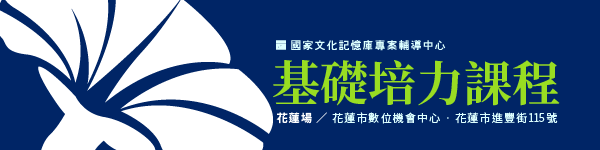
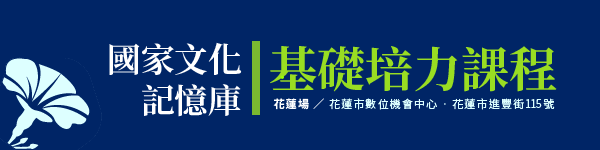
fix to new header
fix to new header

diff --git a/etw.html b/etw.html
@@ -42,7 +42,7 @@
 			* @theme page
 			*/
 			#bodyCell{
-				/*@editable*/ border-top:1px solid #006D3E;
+				/*@editable*/ border-top:0px solid #006D3E;
 			}
 
 			/**
@@ -51,7 +51,7 @@
 			* @tip Set the border for your email.
 			*/
 			#templateContainer{
-				/*@editable*/ border:1px solid #006D3E;
+				/*@editable*/ border:1px solid #0e1e3b;
 			}
 
 			/**
@@ -61,7 +61,7 @@
 			* @style heading 1
 			*/
 			h1{
-				/*@editable*/ color:#FFF !important;
+				/*@editable*/ color:#0e1e3b !important;
 				display:block;
 				/*@editable*/ font-family:"微軟正黑體" , Helvetica;
 				/*@editable*/ font-size:28px;
@@ -71,9 +71,11 @@
 				/*@editable*/ letter-spacing:normal;
 				margin-top:0;
 				margin-right:0;
-				margin-bottom:5px;
+				margin-bottom:0px;
 				margin-left:0;
 				/*@editable*/ text-align:justify;
+                 border-top: 1px solid #0e1e3b;
+                padding-top: 15px;
 			}
 
 			/**
@@ -83,7 +85,7 @@
 			* @style heading 2
 			*/
 			h2{
-				/*@editable*/ color:#99DD22 !important;
+				/*@editable*/ color:#002266 !important;
 				display:block;
 				/*@editable*/ font-family:"微軟正黑體" , Helvetica;
 				/*@editable*/ font-size:24px;
@@ -96,6 +98,8 @@
 				margin-bottom:5px;
 				margin-left:0;
 				/*@editable*/ text-align:left;
+                border-top: 1px solid #0e1e3b;
+                padding-top: 15px;
 			}
 
 			/**
@@ -105,7 +109,7 @@
 			* @style heading 3
 			*/
 			h3{
-				/*@editable*/ color:#ccc !important;
+				/*@editable*/ color:#333 !important;
 				display:block;
 				/*@editable*/ font-family:"微軟正黑體" , Helvetica;
 				/*@editable*/ font-size:16px;
@@ -127,7 +131,7 @@
 			* @style heading 4
 			*/
 			h4{
-				/*@editable*/ color:#fff !important;
+				/*@editable*/ color:#002266 !important;
 				display:block;
 				/*@editable*/ font-family:"微軟正黑體" , Helvetica;
 				/*@editable*/ font-size:14px;
@@ -186,9 +190,9 @@
 			* @theme header
 			*/
 			#templateHeader{
-				/*@editable*/ background-color:#002566;
-				/*@editable*/ border-top:1px solid #99DD22;
-				/*@editable*/ border-bottom:1px solid #006D3E;
+				/*@editable*/ background-color:#dff;
+				/*@editable*/ border-top:0px solid #99DD22;
+				/*@editable*/ border-bottom:0px solid #006D3E;
 			}
 
 			/**
@@ -197,7 +201,7 @@
 			* @tip Set the styling for your email's header text. Choose a size and color that is easy to read.
 			*/
 			.headerContent{
-				/*@editable*/ color:#505050;
+				/*@editable*/ color:#dff;
 				/*@editable*/ font-family:"微軟正黑體" , Helvetica;
 				/*@editable*/ font-size:20px;
 				/*@editable*/ font-weight:bold;
@@ -234,9 +238,9 @@
 			* @tip Set the background color and borders for your email's body area.
 			*/
 			#templateBody{
-				/*@editable*/ background-color:#002566;
-				/*@editable*/ border-top:1px solid #99DD22;
-				/*@editable*/ border-bottom:1px solid #006D3E;
+				/*@editable*/ background-color:#f8fbf1;
+				/*@editable*/ border-top:0px solid #99DD22;
+				/*@editable*/ border-bottom:0px solid #006D3E;
 			}
 
 			/**
@@ -246,7 +250,7 @@
 			* @theme main
 			*/
 			.bodyContent{
-				/*@editable*/ color:#DFF;
+				/*@editable*/ color:#0e1e3b;
 				/*@editable*/ font-family:"微軟正黑體" , Helvetica;
 				/*@editable*/ font-size:14px;
 				/*@editable*/ line-height:120%;
@@ -264,7 +268,7 @@
 			* @tip Set the styling for your email's main content links. Choose a color that helps them stand out from your text.
 			*/
 			.bodyContent a:link, .bodyContent a:visited, /* Yahoo! Mail Override */ .bodyContent a .yshortcuts /* Yahoo! Mail Override */{
-				/*@editable*/ color:#99DD22;
+				/*@editable*/ color:#002266;
 				/*@editable*/ font-weight:bold;
 				/*@editable*/ text-decoration:none;
                 
@@ -286,7 +290,7 @@
 			* @tip Set the background color and borders for your email's column area.
 			*/
 			#templateColumns{
-				/*@editable*/ background-color:#002566;
+				/*@editable*/ background-color:#f8fbf1;
 				/*@editable*/ border-top:0px solid #99DD22;
 				/*@editable*/ border-bottom:0px solid #006D3E;
 			}
@@ -297,7 +301,7 @@
 			* @tip Set the styling for your email's left column content text. Choose a size and color that is easy to read.
 			*/
 			.leftColumnContent{
-				/*@editable*/ color:#DFF;
+				/*@editable*/ color:#000;
 				/*@editable*/ font-family:"微軟正黑體" , Helvetica;
 				/*@editable*/ font-size:14px;
 				/*@editable*/ line-height:120%;
@@ -315,7 +319,7 @@
 			* @tip Set the styling for your email's left column content links. Choose a color that helps them stand out from your text.
 			*/
 			.leftColumnContent a:link, .leftColumnContent a:visited, /* Yahoo! Mail Override */ .leftColumnContent a .yshortcuts /* Yahoo! Mail Override */{
-				/*@editable*/ color:#99DD22;
+				/*@editable*/ color:#002266;
 				/*@editable*/ font-weight:bold;
 				/*@editable*/ text-decoration:none;
 			}
@@ -343,7 +347,7 @@
 			* @tip Set the styling for your email's center column content links. Choose a color that helps them stand out from your text.
 			*/
 			.centerColumnContent a:link, .centerColumnContent a:visited, /* Yahoo! Mail Override */ .centerColumnContent a .yshortcuts /* Yahoo! Mail Override */{
-				/*@editable*/ color:#99DD22;
+				/*@editable*/ color:#002266;
 				/*@editable*/ font-weight:normal;
 				/*@editable*/ text-decoration:underline;
 			}
@@ -354,7 +358,7 @@
 			* @tip Set the styling for your email's right column content text. Choose a size and color that is easy to read.
 			*/
 			.rightColumnContent{
-				/*@editable*/ color:#DFF;
+				/*@editable*/ color:#000;
 				/*@editable*/ font-family:"微軟正黑體" , Helvetica;
 				/*@editable*/ font-size:14px;
 				/*@editable*/ line-height:120%;
@@ -372,7 +376,7 @@
 			* @tip Set the styling for your email's right column content links. Choose a color that helps them stand out from your text.
 			*/
 			.rightColumnContent a:link, .rightColumnContent a:visited, /* Yahoo! Mail Override */ .rightColumnContent a .yshortcuts /* Yahoo! Mail Override */{
-				/*@editable*/ color:#99DD22;
+				/*@editable*/ color:#002266;
 				/*@editable*/ font-weight:normal;
 				/*@editable*/ text-decoration:underline;
 			}
@@ -392,8 +396,8 @@
 			* @theme footer
 			*/
 			#templateFooter{
-				/*@editable*/  background-color:#002566;
-				/*@editable*/ border-top:1px solid #99DD22;
+				/*@editable*/  background-color:#002266;
+				/*@editable*/ border-top:0px solid #99DD22;
 			
 			}
 
@@ -644,7 +648,7 @@
                                                 
                                              
                                                 <h2><a href="https://IEvents.iii.org.tw/EventS.aspx?t=0&id=470" target="_blank">善用資料導入工具-資訊系統功能與操作</a></h2>
-<h3>3/27(三) 14:00-17:00</h3>   <a href="https://IEvents.iii.org.tw/EventS.aspx?t=0&id=470" target="_blank"><img src="https://mc.moc.plus/img/c1.png" style="max-width:560px;" id="bodyImage" mc:label="body_image" mc:edit="body_image" mc:allowtext /></a>
+<h3>3/27(三) 14:00-17:00</h3>  
                                                 講師藉由帶領學員上機操作，一步步練習將資料導入系統，幫助學員快速了解數位文化內容管理系統的功能、熟悉系統的操作方法，並解說關於資料的檢核方式。
                                                 <br><br/>
                                                 <h4>講師簡介／林建宏</h4>鈕酷樂股份有限公司 專案經理
@@ -659,20 +663,16 @@
                                 	<!-- BEGIN COLUMNS // -->
                                     <table border="0" cellpadding="0" cellspacing="0" id="templateBody">
                                         <tr>
-                                        <td valign="top" class="bodyContent" mc:edit="body_content" style="width:100%">
+                                        <td valign="top" class="bodyContent" mc:edit="body_content" style="width:100% padding-bottom:0px">
                                                  <h2>  <a href="https://IEvents.iii.org.tw/EventS.aspx?t=0&id=470" target="_blank">打造資料內容力-詮釋資料概觀&資料蒐集選題</a></h2>
 <h3>4/10(三) 9:30-18:30</h3>
                                                             
                                     <table border="0" cellpadding="0" cellspacing="0" width="100%" id="templateColumns">
 
-                                    	<tr mc:repeatable>
-                                        	<td align="center" valign="top" class="templateColumnContainer" style="padding-top:20px;">
+                                    	<tr>
+                                        	<td align="center" valign="top" class="templateColumnContainer" >
                                             	<table border="0" cellpadding="20" cellspacing="0" width="100%">
-                                                	<tr>
-                                                    	<td class="leftColumnContent">
-                                                            <a href="https://IEvents.iii.org.tw/EventS.aspx?t=0&id=470" target="_blank"><img src="https://mc.moc.plus/img/c4.png" style="max-width:260px;" class="columnImage" mc:label="left_column_image" mc:edit="left_column_image" /></a>
-                                                        </td>
-                                                    </tr>
+                                                	
                                                     <tr>
                                                     	<td valign="top" class="leftColumnContent" mc:edit="left_column_content">
                                                             <h4>詮釋資料概觀</h4>
@@ -681,17 +681,14 @@
                                                     </tr>
                                                 </table>
                                             </td>
-                                        	<td align="center" valign="top" class="templateColumnContainer" style="padding-top:20px;">
+                                        	<td align="center" valign="top" class="templateColumnContainer" >
                                             	<table border="0" cellpadding="20" cellspacing="0" width="100%">
-                                                	<tr>
-                                                    	<td class="rightColumnContent">
-                                                            <a href="https://IEvents.iii.org.tw/EventS.aspx?t=0&id=470" target="_blank"><img src="https://mc.moc.plus/img/c3.png" style="max-width:260px;" class="columnImage" mc:label="right_column_image" mc:edit="right_column_image" /></a>
-                                                        </td>
-                                                    </tr>
+                                                	
                                                     <tr>
                                                     	<td valign="top" class="rightColumnContent" mc:edit="right_column_content">
                                                             <h4>資料蒐集選題</h4>
                                                            講師將依學員帶來的盤點資料，協助學員檢視手中資料內容，找出扣合訂定的主題方向，為提升資料內容力打好根基！在一來一往的共同討論中，逐步型塑資料架構體系，協助打造完整性與豐富性兼備的資料，   
+                                                          
                                                         </td>
                                                     </tr>
                                                 </table>
@@ -722,8 +719,7 @@
                                             <td valign="top" class="bodyContent" mc:edit="body_content">
                                                                                                <h2><a href="https://IEvents.iii.org.tw/EventS.aspx?t=0&id=470" target="_blank">從概念到實務-掌握必知授權要點 </a></h2>
                                                 <h3>4/26(五) 14:00-18:00</h3>
-                                                 <a href="https://IEvents.iii.org.tw/EventS.aspx?t=0&id=470" target="_blank"><img src="https://mc.moc.plus/img/c2.png" style="max-width:560px;" id="bodyImage" mc:label="body_image" mc:edit="body_image" mc:allowtext /></a>
-
+                                           
 首先建立授權、創用CC的基本概念，與明白計畫中的授權相關規範規定。至於學員關心的眾多授權議題：例如：將來可能面臨何種授權狀況？授權程序如何進行、怎樣簽定授權書？…等等問題，將在課程中皆有完整的教學與討論。
 <br/><br/>
 <h4>講師簡介／章忠信</h4>
@@ -737,16 +733,16 @@
                                     
                                     <table border="0" cellpadding="0" cellspacing="0" width="100%" id="templateBody">
                                         <tr>
-                                            <td valign="top" class="bodyContent" mc:edit="body_content">
+                                            <td valign="top" class="bodyContent" mc:edit="body_content" style="text-align: center;">
                                                 
                                                 
-                                                <a href="https://IEvents.iii.org.tw/EventS.aspx?t=0&id=470" target="_blank"><h1>基礎培力課程-花蓮場</h1></a>
-                                                <h3>課程地點：花蓮市數位機會中心 (花蓮市進豐街115號)</h3>
+                                                <a href="https://IEvents.iii.org.tw/EventS.aspx?t=0&id=470" target="_blank"  style="text-align: center;"><h1  style="text-align: center;">基礎培力課程-花蓮場</h1></a>
+                                                <h3  style="text-align: center;">課程地點：花蓮市數位機會中心 (花蓮市進豐街115號)</h3>
                                                 
                                                 
                                                 <br/>
                                                 <br/>
-                                                <h2 style="text-align: center">
+                                                <h2 style="text-align: center;  border-top: 0px solid #0e1e3b;">
                                                 <a href="https://IEvents.iii.org.tw/EventS.aspx?t=0&id=470" target="_blank" >> 點我報名</a>
                                                 </h2>
                                             </td>
